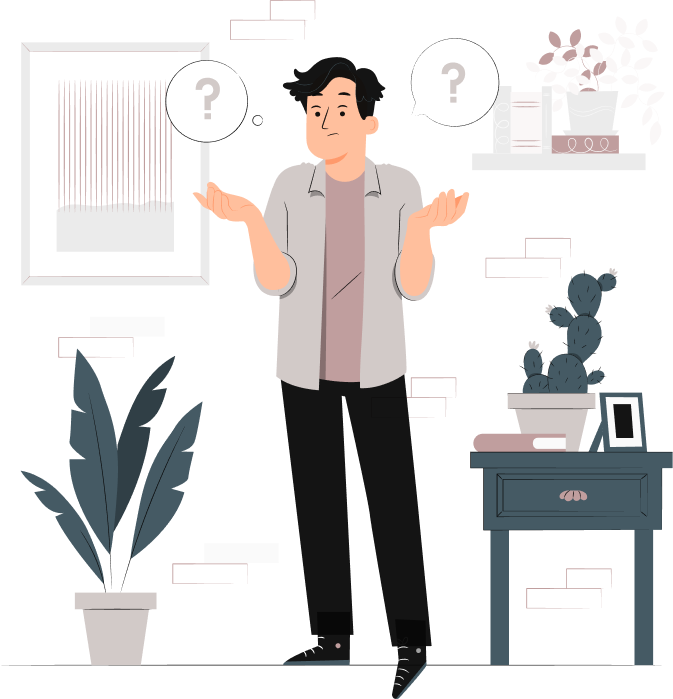
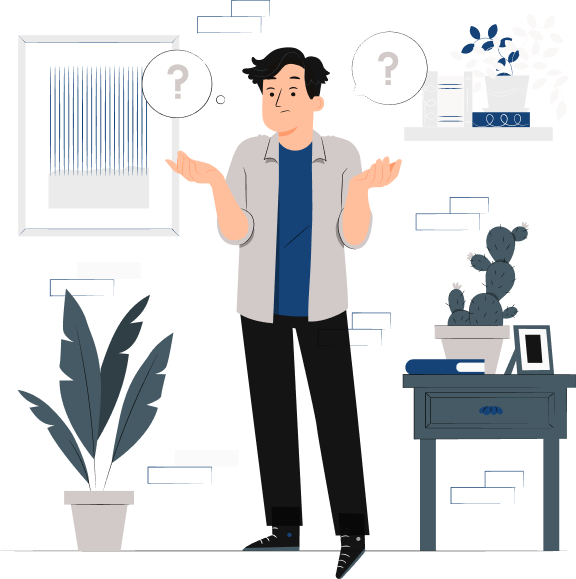
UI changes

diff --git a/src/screens/Auth/SignUp/index.js b/src/screens/Auth/SignUp/index.js
@@ -2,9 +2,10 @@ import {Dimensions, Image, KeyboardAvoidingView, Text, View,TouchableOpacity} fr
 import style from './style';
 
 import icons from '../../../assets/icons';
-import IconInput from '../../../components/Input/IconInput';
+
 import CustomButton from '../../../components/Button';
 import AppHeader from '../../../components/AppHeader';
+import Input from '../../../components/Input';
 
 const SignUp = () => {
 const {width, height} = Dimensions.get('window');
@@ -19,29 +20,29 @@ const {width, height} = Dimensions.get('window');
         <KeyboardAvoidingView behavior="position">
           
           <View style={style.fieldview}>
-            <IconInput
+            <Input
               inputMode={'tel'}
-              inputLabel={'Enter Your CNIC Number'}
+              placeholder={'Enter Your CNIC Number'}
             />
-            <IconInput inputMode={'tel'} inputLabel={'Enter Your name'} />
-            <IconInput
+            <Input inputMode={'tel'} placeholder={'Enter Your name'} />
+            <Input
               inputMode={'tel'}
-              inputLabel={'Enter Your Mobile Number'}
+              placeholder={'Enter Your Mobile Number'}
             />
-            <IconInput
+            <Input
               secureTextEntry={true}
-              inputLabel={'Enter Your Password'}
+              placeholder={'Enter Your Password'}
             />
-            <IconInput secureTextEntry={true} inputLabel={'confirm Password'} />
+            <Input secureTextEntry={true} placeholder={'confirm Password'} />
           </View>
-          <View style={{paddingTop:height*0.03}}>    
-                <CustomButton  text={'Register'} />
+          <View style={{paddingTop:height*0.03,alignSelf:"center"}}>    
+          <CustomButton text={'Send OTP Code'} ButtonWidth={width * 0.5} />
                 </View>
 
           <View style={{flexDirection:'row',paddingTop:height*0.02,justifyContent:"center"}}>
-          <Text style={{fontSize:width * 0.04}}>Don't Have an account?</Text>
+          <Text style={{fontSize:width * 0.04}}>Already Have account?</Text>
             <TouchableOpacity>
-              <Text style={{fontSize:width * 0.04}}> Signup</Text>
+              <Text style={{fontSize:width * 0.04, color: '#164377',}}> Signup</Text>
             </TouchableOpacity>
           </View>
         </KeyboardAvoidingView>

diff --git a/src/screens/Auth/Signin/index.js b/src/screens/Auth/Signin/index.js
@@ -18,7 +18,7 @@ const Signin = ({navigation}) => {
   return (
     <>
       <AppHeader
-        title={'Sign In'}
+         title={'Login'}
         onPressBackButton={() => navigation.navigate('Splash')}
       />
 
@@ -33,8 +33,8 @@ const Signin = ({navigation}) => {
             <View>
               <Text style={style.txt1}>EzFix</Text>
             </View>
-           <View style={{paddingTop:height*0.05}}>  
-            <Input placeholder={'Phone Number'} />
+           <View style={{paddingTop:height*0.1}}>  
+            <Input  placeholder={'Phone Number'} />
             
             <Input placeholder={'Password'} />
             </View>
@@ -44,7 +44,7 @@ const Signin = ({navigation}) => {
               flexDirection: 'column',
               alignItems: 'center',
               justifyContent: 'center',
-              paddingTop:width*0.05
+              paddingTop:width*0.3
             }}>
             <CustomButton text={'Login'} ButtonWidth={width * 0.4} />
         
@@ -52,15 +52,13 @@ const Signin = ({navigation}) => {
           <View style={{flexDirection:'row',paddingTop:height*0.02}}>
           <Text style={{fontSize:width * 0.04}}>Don't Have an account?</Text>
             <TouchableOpacity>
-              <Text style={{fontSize:width * 0.04}}> Signup</Text>
+              <Text style={{fontSize:width * 0.04,color:"#075B9D"}}> Signup</Text>
             </TouchableOpacity>
           </View>
           <TouchableOpacity  style={{paddingTop:height*0.01}}>
-            <Text>Forget Password?</Text>
+            <Text style={{fontWeight:"bold"}}>Forget Password?</Text>
           </TouchableOpacity>
-          <View style={style.bottomContainer}>
-        <Image source={images.LoginLeftImage} style={style.leftImage} />
-      </View>
+        
         </View>
       </KeyboardAvoidingView>
     </>

diff --git a/src/screens/Auth/ForgetPassword/index.js b/src/screens/Auth/ForgetPassword/index.js
@@ -11,6 +11,7 @@ import {
 import icons from '../../../assets/icons';
 import images from '../../../assets/images';
 import AppHeader from '../../../components/AppHeader';
+import Input from '../../../components/Input';
 
 const {width, height} = Dimensions.get('window');
 const Index = () => {
@@ -28,14 +29,19 @@ const Index = () => {
             <Text style={style.txt1}>Forgot Password?</Text>
           </View>
           <View style={style.txt2view}>
-            <Text>Don’t worry! it happens.</Text>
-            <Text>Please enter phone number associated with your account</Text>
+            <Text>Don’t worry! it happens.Please enter phone</Text>
+            <Text> number associated with your account</Text>
           </View>
-          <View style={{paddingTop: height * 0.04}}>
-            <IconInput inputLabel={'Enter Your Mobile Number'} />
+          <View style={{paddingTop: height * 0.04,alignSelf:"center"}}>
+            <Input placeholder={'Enter Your Mobile Number'} />
           </View>
-          <View style={{paddingTop: height * 0.01}}>
-            <CustomButton text={'Send OTP Code'} />
+          <View  style={{
+              flexDirection: 'column',
+              alignItems: 'center',
+              justifyContent: 'center',
+              paddingTop:height*0.1
+            }}>
+            <CustomButton text={'Send OTP Code'} ButtonWidth={width * 0.5}  />
           </View>
         </KeyboardAvoidingView>
       </View>

diff --git a/src/screens/Auth/ResetPassword/index.js b/src/screens/Auth/ResetPassword/index.js
@@ -12,6 +12,7 @@ import icons from '../../../assets/icons';
 import images from '../../../assets/images';
 
 import AppHeader from '../../../components/AppHeader';
+import Input from '../../../components/Input';
 
 const Index = () => {
   const {width, height} = Dimensions.get('window');
@@ -31,18 +32,18 @@ const Index = () => {
           <View style={style.txt2view}>
             <Text>Now you can reset your old password</Text>
           </View>
-          <View style={{paddingTop: height * 0.05}}>
-            <IconInput
+          <View style={{paddingTop: height * 0.01}}>
+            <Input
               secureTextEntry={true}
-              inputLabel={'Enter a new Password'}
+              placeholder={'Enter a new Password'}
             />
-            <IconInput
+            <Input
               secureTextEntry={true}
-              inputLabel={'Confirm new Password'}
+              placeholder={'Confirm new Password'}
             />
           </View>
-          <View style={{paddingTop: height * 0.04}}>
-            <CustomButton text={'Submit'} />
+          <View style={{paddingTop: height * 0.06,alignSelf:"center"}}>
+            <CustomButton text={'Submit'}  ButtonWidth={width * 0.5}/>
           </View>
         </KeyboardAvoidingView>
       </View>

diff --git a/src/screens/Auth/CongratsScreen/index.js b/src/screens/Auth/CongratsScreen/index.js
@@ -15,7 +15,7 @@ const Signin = ({navigation}) => {
     <KeyboardAvoidingView behavior="position">
       <View style={style.container}>
         <View style={style.imgview}>
-          <Image source={images.Congratulation} />
+          <Image  source={images.Congratulation} />
         </View>
         <View>
           <Text style={style.txt1}>You're all set!</Text>
@@ -25,9 +25,9 @@ const Signin = ({navigation}) => {
             flexDirection: 'column',
             alignItems: 'center',
             justifyContent: 'center',
-            paddingTop: height * 0.04,
+            paddingTop: height * 0.1,
           }}>
-          <CustomButton text={'Lets Begin'} ButtonWidth={width * 0.9} />
+          <CustomButton text={'Lets Begin'} ButtonWidth={width * 0.4} />
         </View>
       </View>
     </KeyboardAvoidingView>

diff --git a/src/screens/Auth/Signin/style.js b/src/screens/Auth/Signin/style.js
@@ -19,10 +19,10 @@ export default StyleSheet.create({
   },
 
   txt1: {
-    fontSize: width * 0.07,
-    color: 'black',
+    fontSize: width * 0.2,
+    color: '#164377',
     paddingTop: height * 0.01,
-    fontStyle:"italic"
+    fontStyle:"normal"
   },
 
   txt2: {
@@ -30,13 +30,7 @@ export default StyleSheet.create({
     color: 'black',
    
   },
-  bottomContainer: {
-    flexDirection: 'row',
-    alignItems: 'center',
-    justifyContent: 'flex-start',
-    width: width * 0.9,
-    height: height * 0.10,
-  },
+  
   leftImage: {
     width: width * 0.8,
     height: height * 0.4,

diff --git a/src/screens/Auth/ResetPassword/style.js b/src/screens/Auth/ResetPassword/style.js
@@ -10,8 +10,10 @@ export default StyleSheet.create({
   },
 
   img: {
-    width: width * 0.6,
-    height: height * 0.2,
+    width: width * 0.8,
+    height: height * 0.4,
+    resizeMode:"contain"
+    
   },
   imgview: {
     alignItems: 'center',
@@ -20,8 +22,9 @@ export default StyleSheet.create({
 
   txt1: {
     fontSize: width * 0.07,
-    color: 'black',
-    paddingTop: height * 0.01,
+
+    color: '#164377',
+    paddingTop: height * 0.001,
   },
   txt2view: {
     paddingTop: height * 0.02,

diff --git a/src/screens/Auth/ForgetPassword/style.js b/src/screens/Auth/ForgetPassword/style.js
@@ -12,16 +12,17 @@ export default StyleSheet.create({
   img: {
     width: width * 0.6,
     height: height * 0.3,
+    resizeMode:"contain"
   },
   imgview: {
     alignItems: 'center',
-    paddingTop: height * 0.1,
+    paddingTop: height * 0.02,
   },
 
   txt1: {
     fontSize: width * 0.07,
-    color: 'black',
-    paddingTop: height * 0.01,
+    color: '#164377',
+    paddingTop: height * 0.04,
   },
   txt2view: {
     paddingTop: height * 0.02,

diff --git a/src/components/Input/styles.js b/src/components/Input/styles.js
@@ -12,10 +12,10 @@ export default StyleSheet.create({
   },
   input: {
     width: width * 0.9,
-    height: height * 0.06,
-    borderWidth: 1,
-    borderColor: '#C19E9E',
-    borderRadius: width * 1,
+    height: height * 0.07,
+    borderWidth: 2,
+    borderColor: '#075B9D',
+    borderRadius: width * 0.02,
     paddingHorizontal: width * 0.05,
     marginTop: height * 0.01,
   },

diff --git a/src/components/Button/style.js b/src/components/Button/style.js
@@ -6,9 +6,9 @@ export default StyleSheet.create({
     // width: width * 0.6,
     // marginHorizontal: width * 0.8,
     // marginTop: height * 0.04,
-    backgroundColor: '#685C5C',
+    backgroundColor: '#075B9D',
     opacity: '85%',
     padding: width * 0.04,
-    borderRadius: width * 1,
+    borderRadius: width * 0.01,
   },
 });

diff --git a/src/screens/Auth/CongratsScreen/style.js b/src/screens/Auth/CongratsScreen/style.js
@@ -9,13 +9,10 @@ export default StyleSheet.create({
     justifyContent: 'center',
   },
 
-  img: {
-    width: width * 0.3,
-    height: height * 0.2,
-  },
+  
   imgview: {
     alignItems: 'center',
-    paddingTop: height * 0.2,
+    paddingTop: height * 0.4,
   },
   txt1: {
     fontSize: width * 0.07,

diff --git a/src/navigators/stack.navigator.js b/src/navigators/stack.navigator.js
@@ -19,7 +19,7 @@ const Stack = createNativeStackNavigator();
 export const RootNavigator = ({}) => {
   return (
     <Stack.Navigator
-      initialRouteName="SelectService"
+      initialRouteName="Congrats"
       screenOptions={{
         headerShown: false,
       }}>
